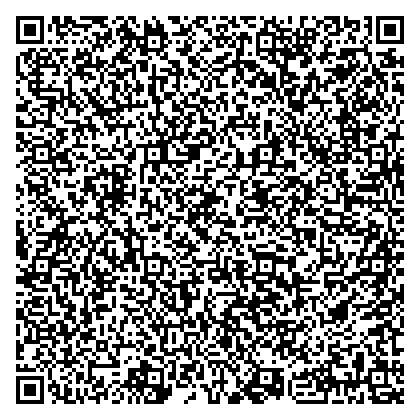
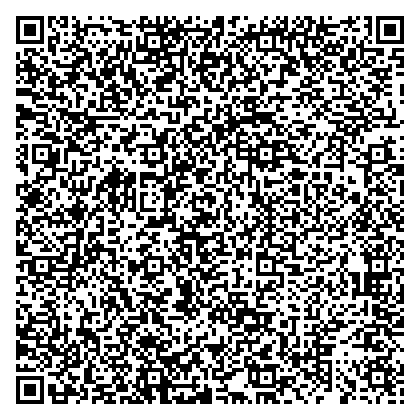
update02141533

diff --git a/marketpaymentrefund.js b/marketpaymentrefund.js
@@ -69,7 +69,7 @@ const rl = readline.createInterface({
         const data = {
             OPSeq: opSeq, // 從 marketpaymentrefund.txt 載入 OPSeq
             BankSeq: bankSeq, // 從 marketpaymentrefund.txt 載入 BankSeq
-            TxAmt: "10",
+            TxAmt: "36",
             OPRefundSeq: bankSeq, // 這裡假設 OPRefundSeq 使用 BankSeq 作為參數
             OPRefundTime: tradeDate, //OPRefundTime
             StoreId: "217477",

diff --git a/README.md b/README.md
@@ -1,4 +1,4 @@
-#WEBTEST_2025_0213更新
+#WEBTEST_2025_0214更新
 
 測試操作方式如下:
 
